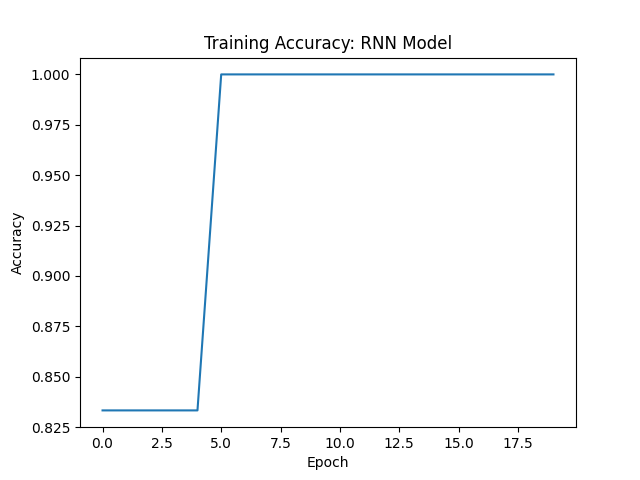
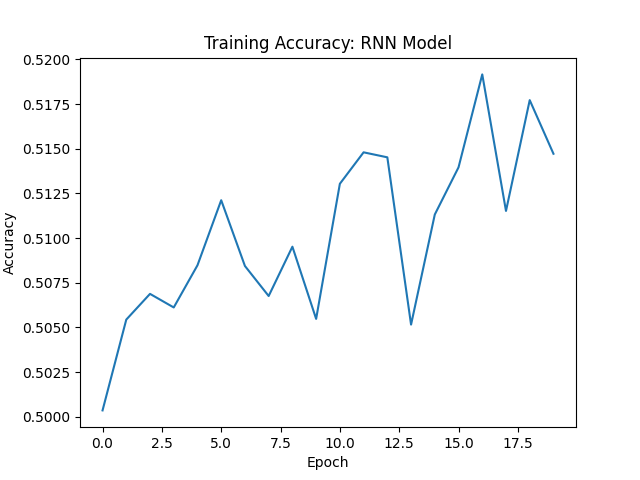
Project 6

diff --git a/03-deep-learning-foundations/project_6_text_classification_rnn/utils/trainer.py b/03-deep-learning-foundations/project_6_text_classification_rnn/utils/trainer.py
@@ -1,6 +1,9 @@
 import torch
+from tqdm import tqdm
 import torch.nn as nn
 import torch.optim as optim
+
+from tqdm import tqdm
 
 def train_epoch(model, loader, criterion, optimizer, device):
     model.train()
@@ -9,27 +12,37 @@ def train_epoch(model, loader, criterion, optimizer, device):
     correct = 0
     total = 0
 
-    for texts, labels in loader:
+    progress_bar = tqdm(
+        loader,
+        desc="Training",
+        leave=False
+    )
+
+    for texts, labels in progress_bar:
         texts = texts.to(device)
         labels = labels.to(device)
 
         optimizer.zero_grad()
+
         outputs = model(texts)
         loss = criterion(outputs, labels)
 
         loss.backward()
         optimizer.step()
+
         total_loss += loss.item()
 
-        predictions = outputs.argmax(1)
+        predictions = outputs.argmax(dim=1)
 
-        correct += (
-            predictions == labels
-        ).sum().item()
-
+        correct += (predictions == labels).sum().item()
         total += labels.size(0)
 
-    return(total_loss/len(loader), correct/total)
+        progress_bar.set_postfix(
+            loss=f"{loss.item():.4f}",
+            acc=f"{100 * correct / total:.2f}%"
+        )
+
+    return total_loss / len(loader), correct / total
 
 def train_model(model, loader, device, epochs=20):
     criterion = nn.CrossEntropyLoss()
@@ -60,3 +73,4 @@ def train_model(model, loader, device, epochs=20):
         )
 
     return losses, accuracies
+

diff --git a/03-deep-learning-foundations/project_6_text_classification_rnn/main.py b/03-deep-learning-foundations/project_6_text_classification_rnn/main.py
@@ -39,13 +39,14 @@ print("\nTraining RNN...\n")
 rnn_losses, rnn_accuracies = train_model(
     rnn_model,
     train_loader,
-    DEVICE
+    DEVICE,
+    epochs=30
 )
 
 plot_metrics(
     "RNN Model",
     rnn_losses,
-    rnn_accuracies
+    rnn_accuracies,
 )
 
 # --------------------------- LSTM Model ---------------------------
@@ -57,7 +58,8 @@ print("\nTraining LSTM...\n")
 lstm_losses, lstm_accuracies = train_model(
     lstm_model,
     train_loader,
-    DEVICE
+    DEVICE,
+    epochs=30
 )
 plot_metrics(
     "LSTM Model",
